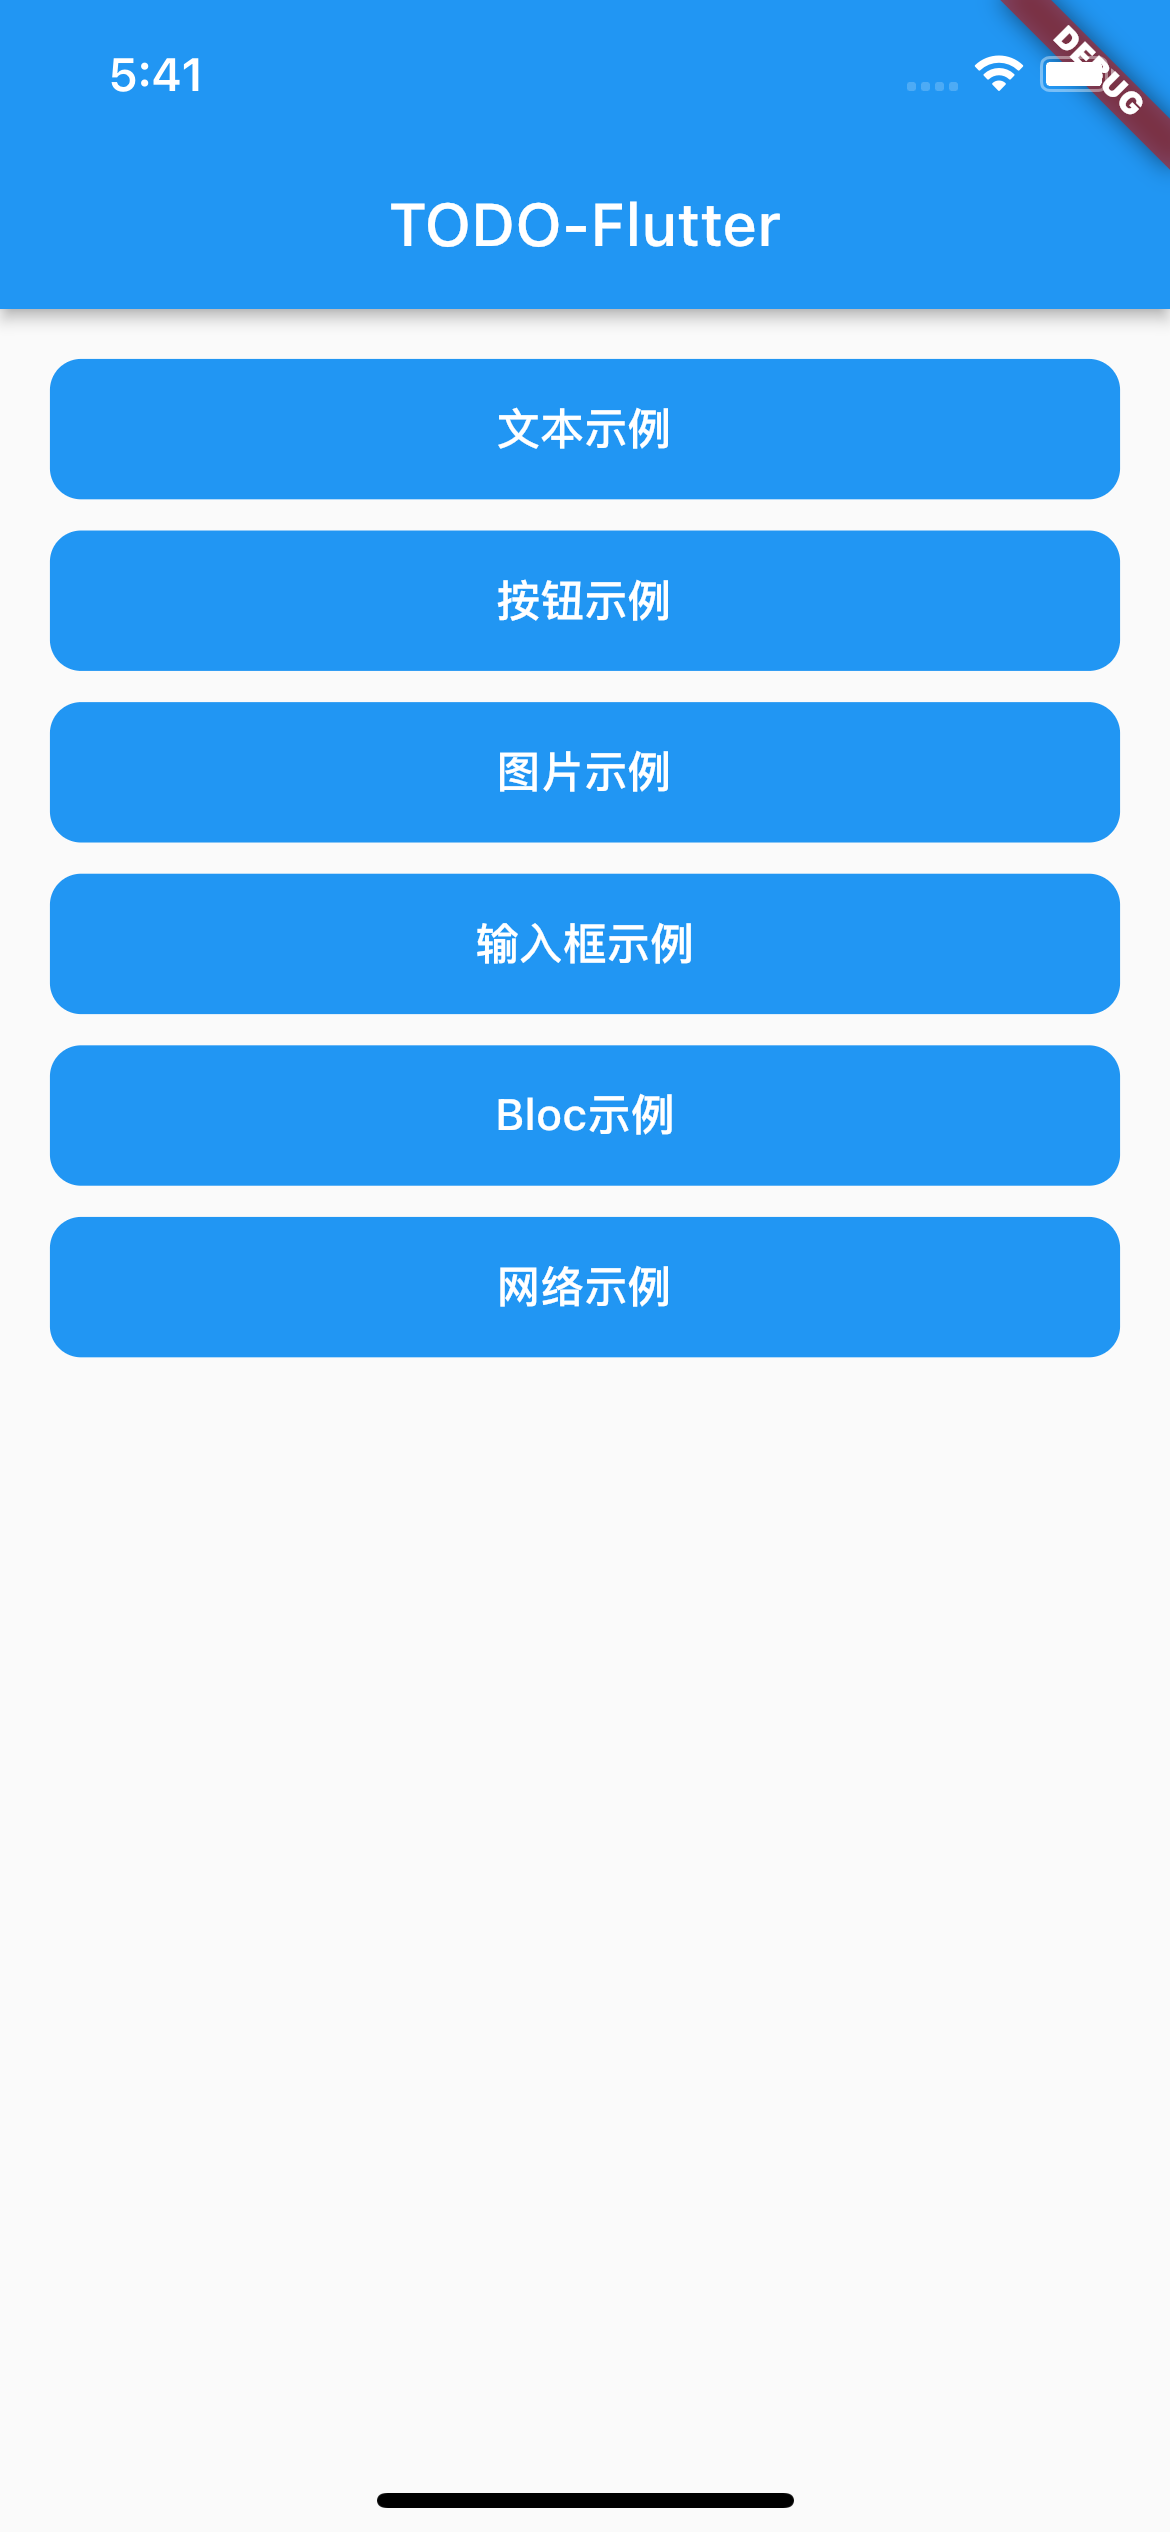
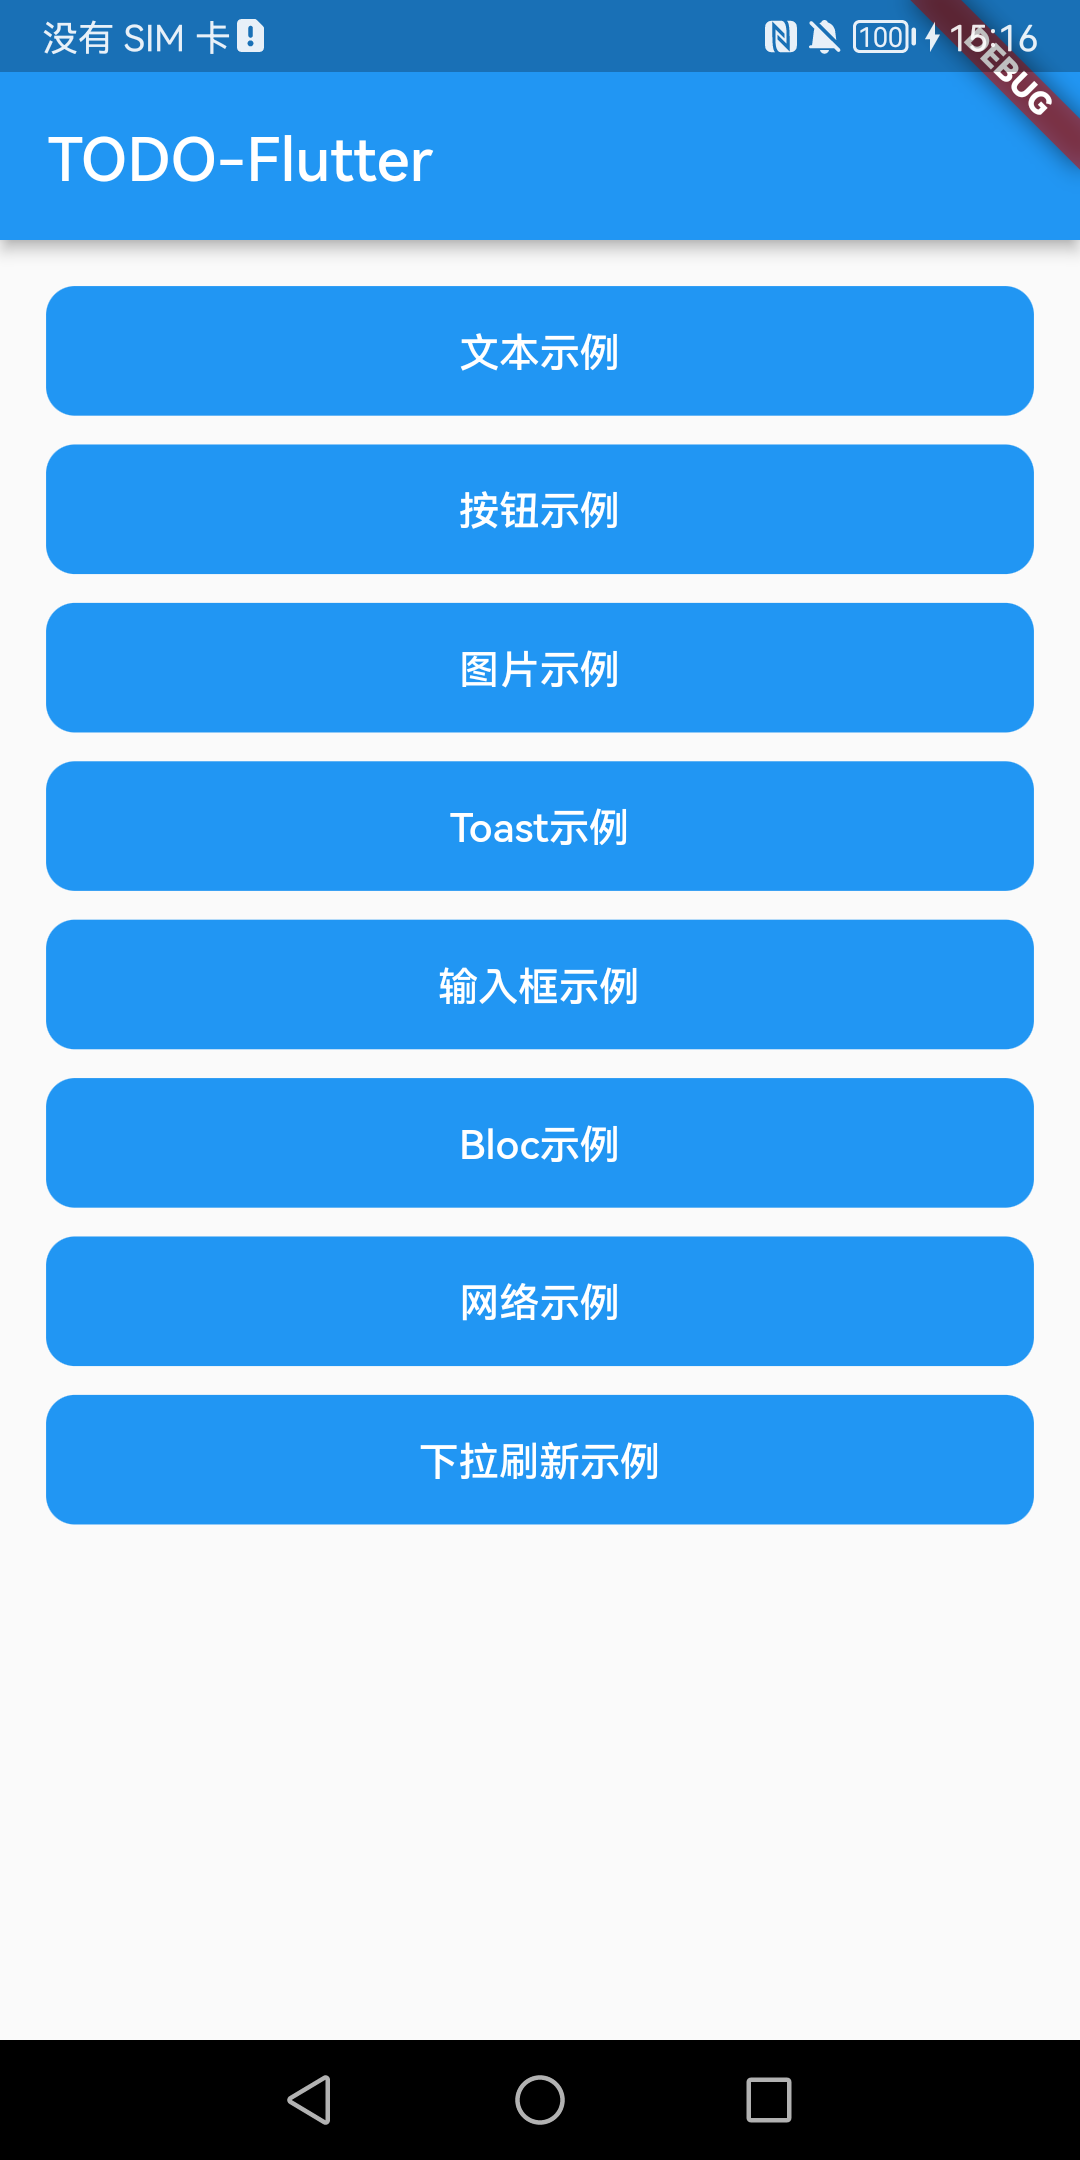
fix: 更新说明

diff --git a/README.md b/README.md
@@ -18,8 +18,6 @@
 │       ├── module_route_name.dart
 │       └── route.sh
 ├── domain
-│   ├── bean
-│   │   └── get_bean.dart
 │   ├── bloc
 │   │   ├── bloc
 │   │   │   ├── test_bloc.dart
@@ -29,7 +27,11 @@
 │   │       ├── net_bloc.dart
 │   │       ├── net_event.dart
 │   │       └── net_state.dart
-│   └── repository
+│   └── request
+│       ├── list_request.dart
+│       ├── model
+│       │   ├── get_model.dart
+│       │   └── list_data_model.dart
 │       └── net_request.dart
 ├── main.dart
 ├── util
@@ -40,5 +42,7 @@
     ├── image_page.dart
     ├── input_page.dart
     ├── net_page.dart
-    └── text_page.dart
+    ├── refresh_page.dart
+    ├── text_page.dart
+    └── toast_page.dart
 ```
